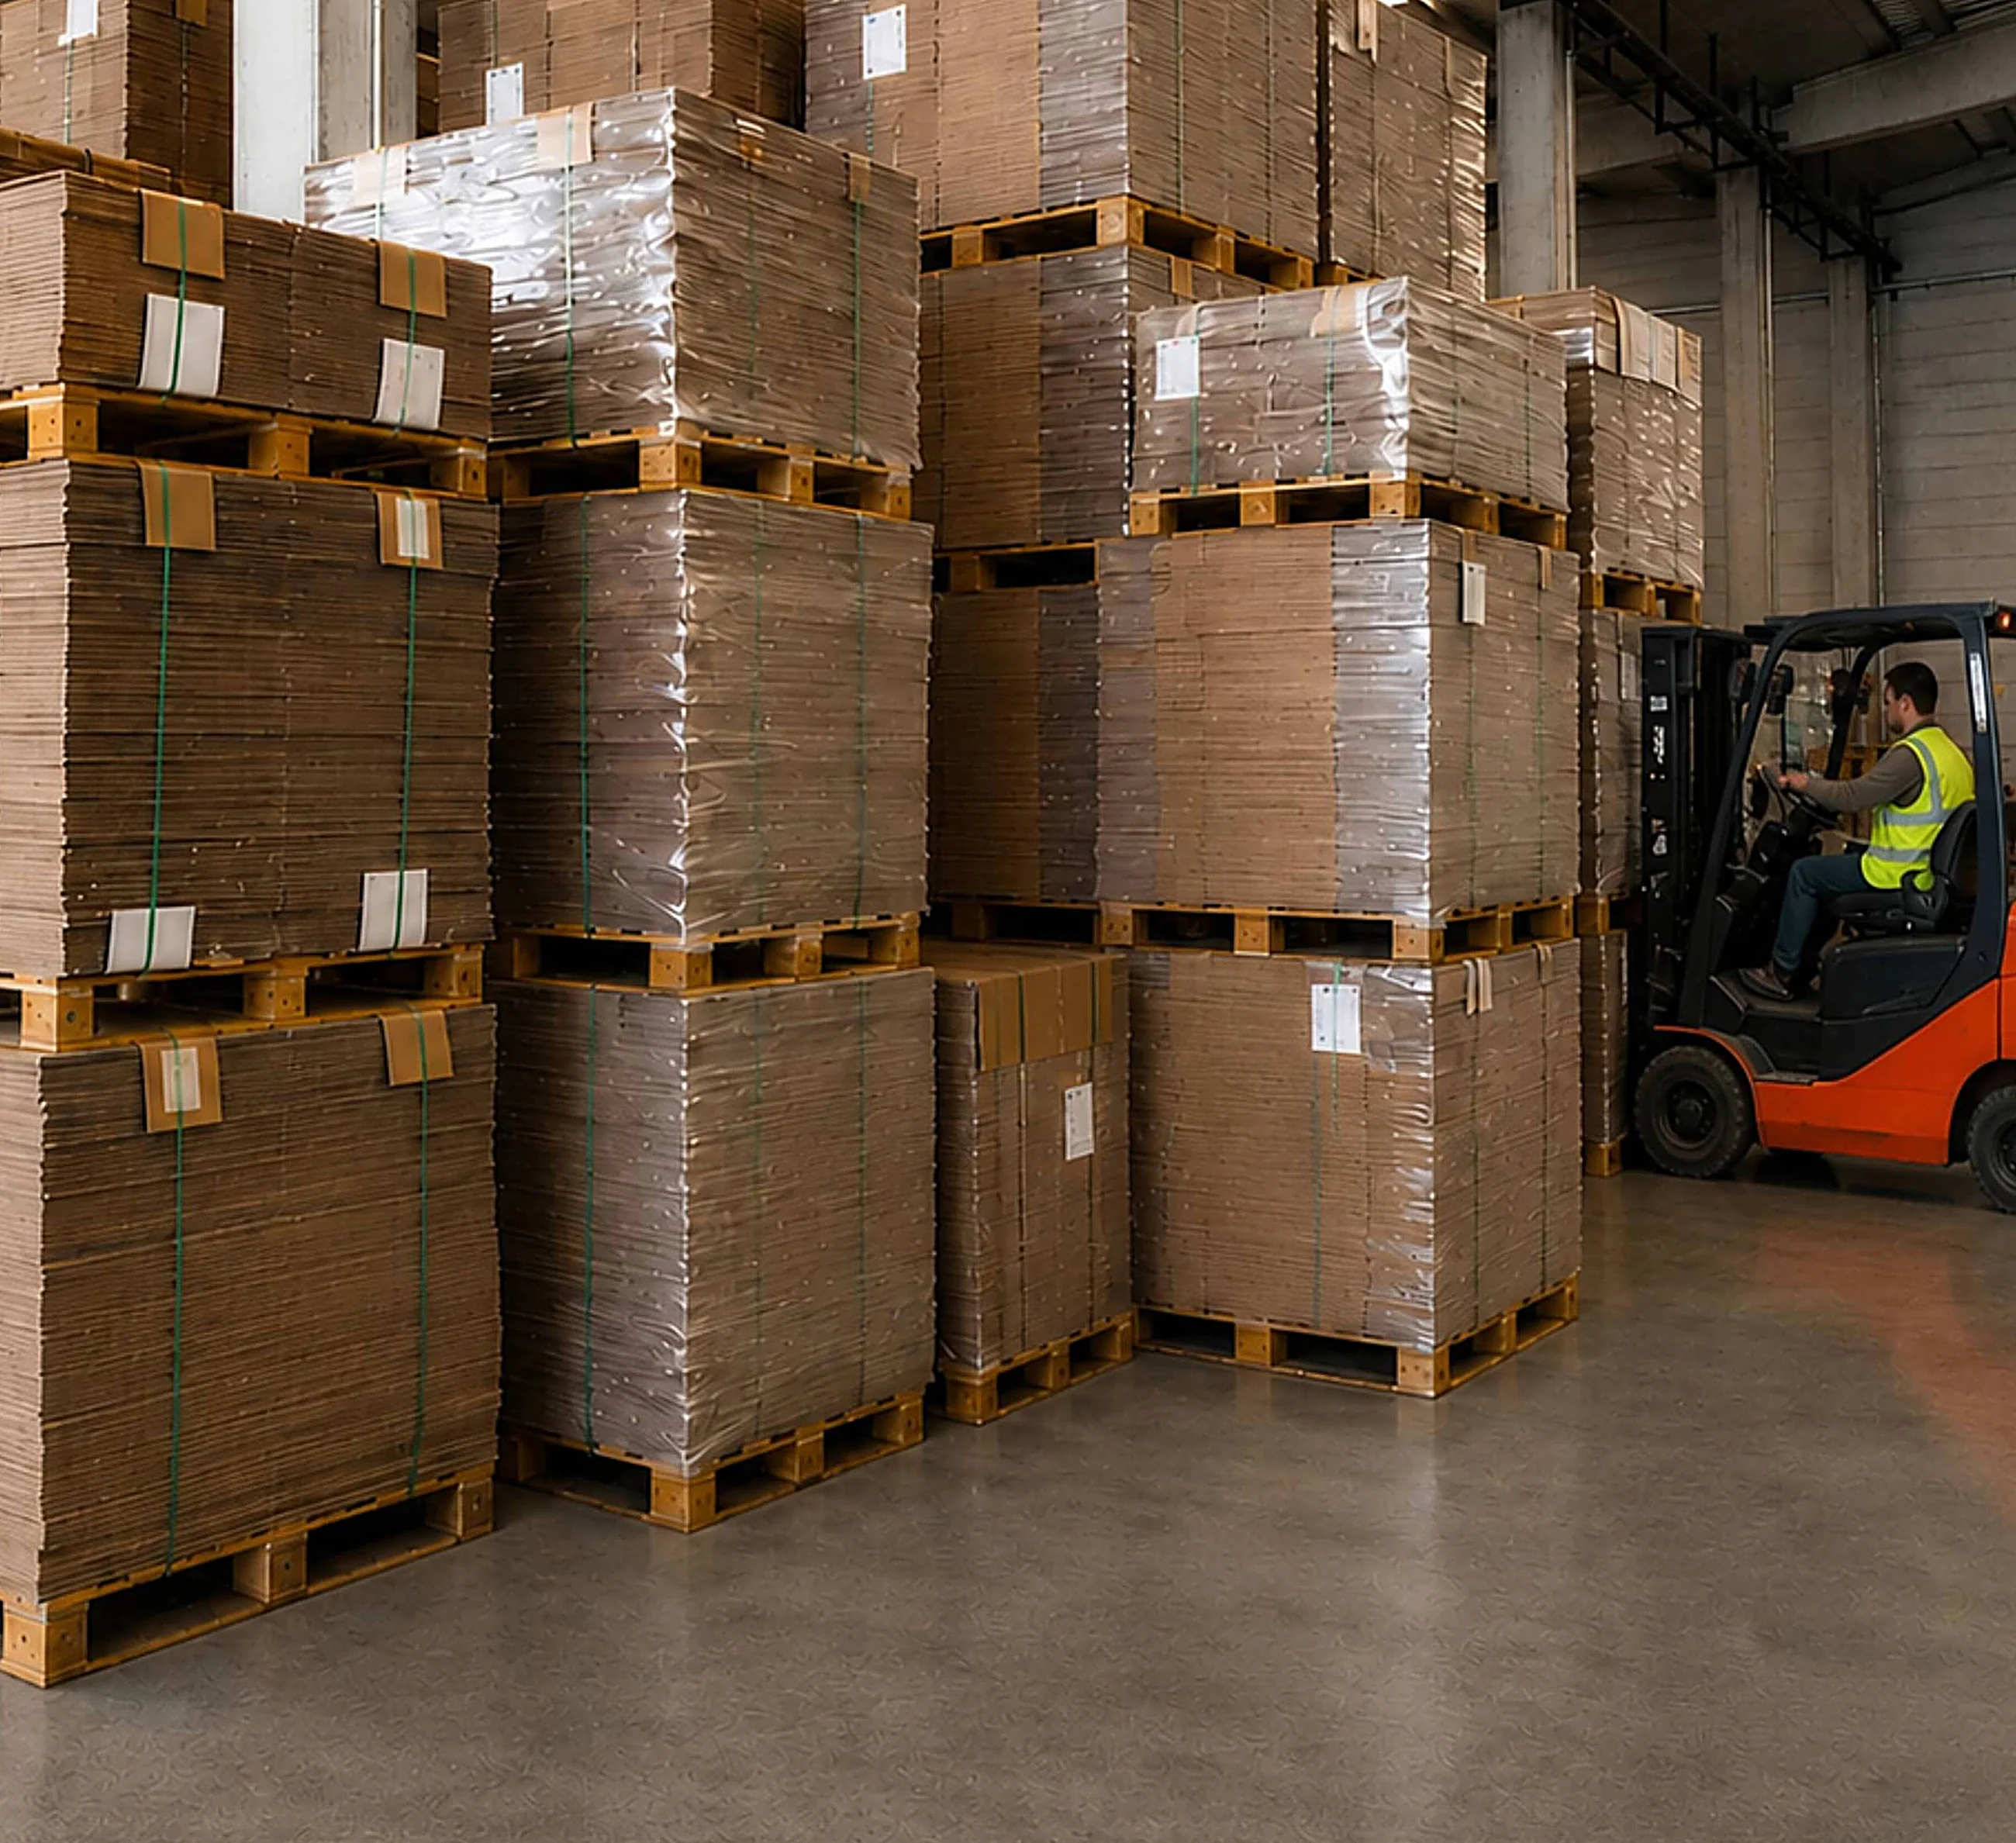
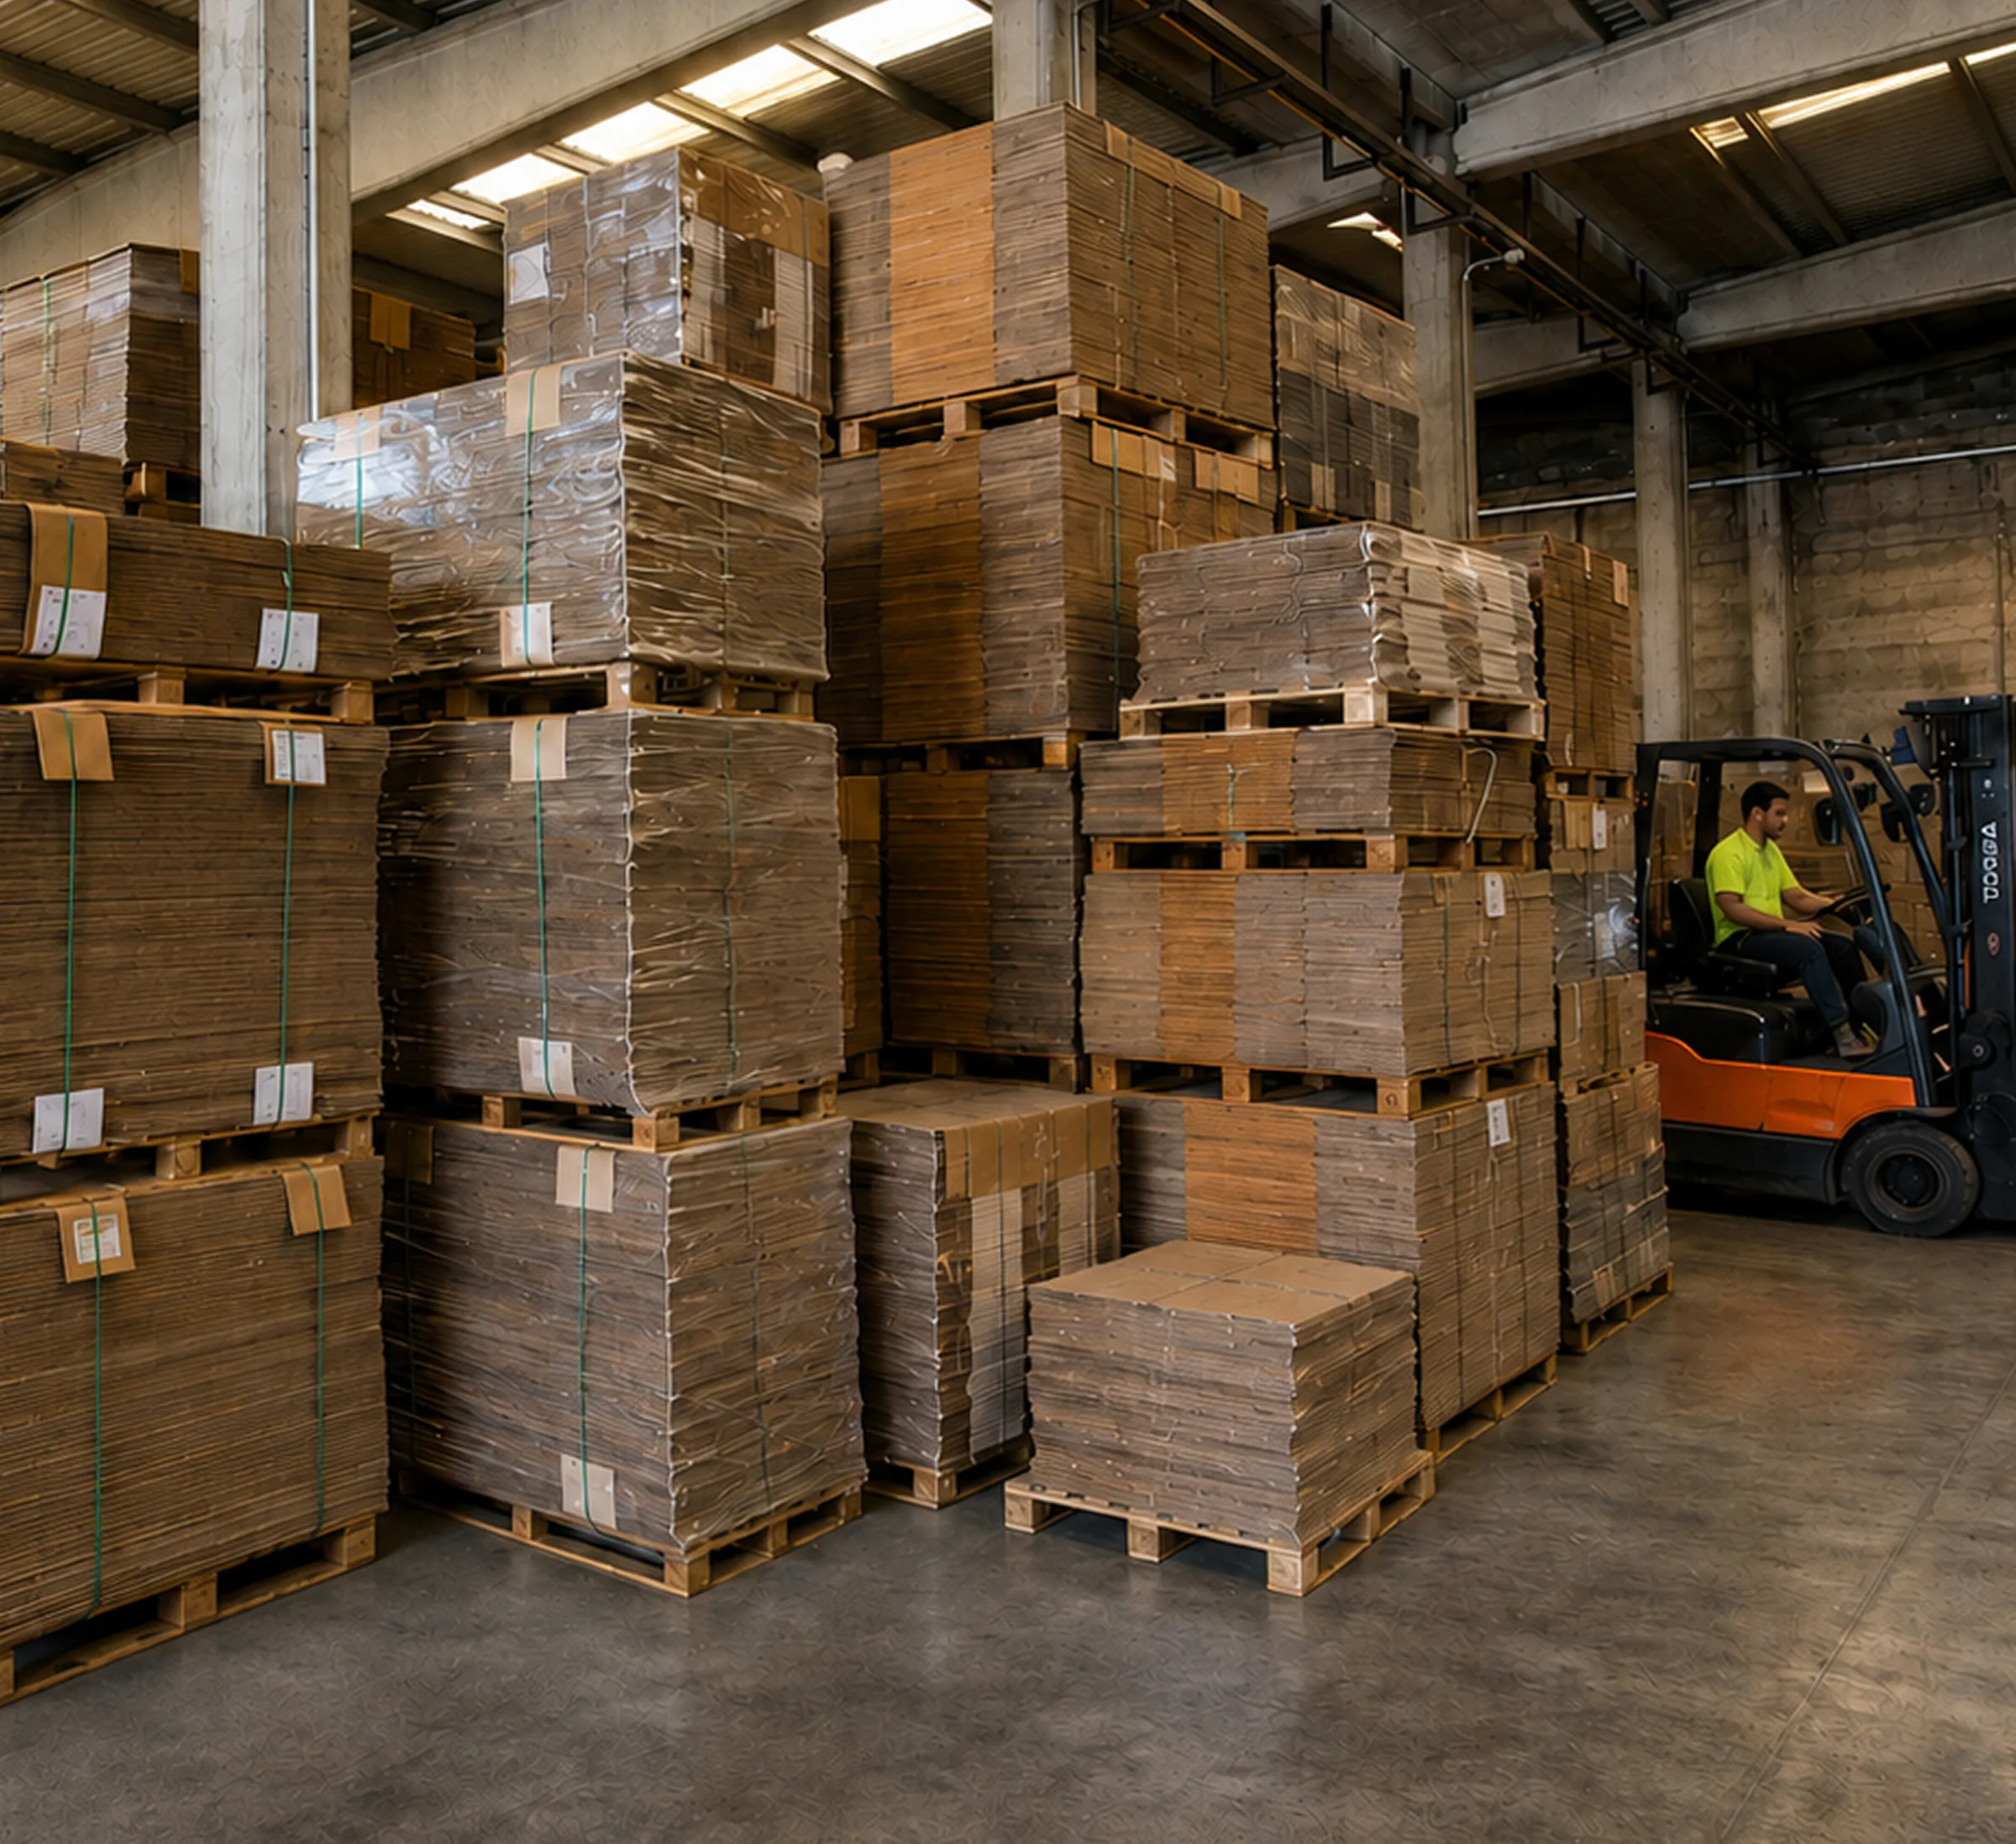
Hero: compo tablet más baja (3/2) y sello 40 abajo-derecha

diff --git a/src/components/Hero.js b/src/components/Hero.js
@@ -1,8 +1,6 @@
 "use client";
 
-import { useEffect, useRef } from "react";
-import { gsap } from "gsap";
-import { ScrollTrigger } from "gsap/ScrollTrigger";
+import { useRef } from "react";
 import Container from "./Container";
 import PillButton from "./PillButton";
 import StockImg from "./StockImg";
@@ -42,56 +40,6 @@ function HeroFactsTrack({ ariaHidden = false }) {
 
 export default function Hero() {
   const sectionRef = useRef(null);
-  const card2Ref = useRef(null);
-
-  useEffect(() => {
-    if (typeof window === "undefined") return;
-    gsap.registerPlugin(ScrollTrigger);
-
-    const ctx = gsap.context(() => {
-      const items = gsap.utils.toArray(".hero-parallax img:not(.no-parallax)");
-      items.forEach((img, i) => {
-        // Recorrido pequeño + escala mínima para que el parallax no recorte
-        // (haga "zoom") las fotos. La escala solo necesita cubrir el viaje:
-        // overflow por lado = (scale-1)/2 ≥ range% · scale.
-        const range = 2 + (i % 3) * 1;
-        const dir = i % 2 === 0 ? 1 : -1;
-        gsap.set(img, { scale: 1.08, yPercent: -range * dir });
-        gsap.to(img, {
-          yPercent: range * dir,
-          ease: "none",
-          scrollTrigger: {
-            trigger: img.parentElement,
-            start: "top bottom",
-            end: "bottom top",
-            scrub: 0.6,
-          },
-        });
-      });
-
-      // Parallax de scroll sutil para la tarjeta secundaria (02): se desplaza
-      // un poco más que el resto al hacer scroll, dando profundidad sobre la
-      // imagen principal.
-      if (card2Ref.current) {
-        gsap.fromTo(
-          card2Ref.current,
-          { yPercent: 20 },
-          {
-            yPercent: -20,
-            ease: "none",
-            scrollTrigger: {
-              trigger: sectionRef.current,
-              start: "top bottom",
-              end: "bottom top",
-              scrub: 0.6,
-            },
-          }
-        );
-      }
-    }, sectionRef);
-
-    return () => ctx.revert();
-  }, []);
 
   return (
     <section
@@ -99,7 +47,7 @@ export default function Hero() {
       className="hero-parallax relative bg-paper overflow-hidden desk:min-h-[calc(100svh-5rem)] desk:flex desk:flex-col"
     >
       <Container className="pt-10 md:pt-12 pb-10 desk:pb-6 desk:flex-1 desk:flex desk:flex-col desk:justify-center">
-        <div className="grid grid-cols-12 gap-x-4 md:gap-x-8 gap-y-8 md:gap-y-12 items-start desk:items-stretch">
+        <div className="grid grid-cols-12 gap-x-4 md:gap-x-8 gap-y-8 md:gap-y-12 items-start">
           <div className="col-span-12 desk:col-span-5 space-y-5 md:space-y-7 text-center desk:text-left">
             <p className="eyebrow">
               Soluciones de embalaje · Logística · Gestión de stock
@@ -131,36 +79,45 @@ export default function Hero() {
             </div>
           </div>
 
-          <div className="col-span-12 desk:col-span-7 desk:col-start-6 relative aspect-[4/3] sm:aspect-[16/10] desk:aspect-auto desk:h-auto desk:min-h-[70vh]">
-            {/* Imagen principal: nave (grande, arriba-izquierda).
-                object-right: el contenido importante está a la derecha, así el
-                recorte responsive se come el lado izquierdo y nunca la derecha. */}
-            <div className="absolute inset-0 overflow-hidden">
+          <div className="col-span-12 desk:col-span-7 desk:col-start-6 relative aspect-[3/2] max-[767px]:aspect-square desk:aspect-square overflow-hidden">
+            {/* Imagen base: nave. Su caja es SOLO el rectángulo que envuelve su
+                cuña izquierda (de 0 a 68% del ancho), no el bloque entero, para
+                que object-cover no gaste foto bajo la máscara del cartón.
+                El clip va relativo a esa caja del 68%. */}
+            <div
+              className="absolute left-0 top-0 h-full w-[68%] overflow-hidden"
+              style={{ clipPath: "polygon(0 0, 100% 0, 73.5% 100%, 0 100%)" }}
+            >
               <StockImg
                 src="/img/cliente/01.webp"
                 srcTablet="/img/cliente/01-tablet.webp"
                 alt="Nave de RM Dislovall con palets envueltos en Sentmenat"
-                className="object-right-bottom"
+                className="object-right"
                 w={1400}
                 q={85}
               />
             </div>
-            {/* Imagen secundaria: cartón ondulado, superpuesta abajo-derecha,
-                sobresaliendo por la derecha y por abajo. */}
-            <div ref={card2Ref} className="absolute right-[4%] desk:right-[-2%] bottom-[-6%] w-[34%] aspect-square">
-              <div className="absolute inset-0 overflow-hidden shadow-[0_24px_55px_-18px_rgba(48,39,29,0.5)]">
-                <StockImg
-                  src="/img/cliente/02.webp"
-                  alt="Detalle de planchas de cartón ondulado"
-                  className="no-parallax"
-                  w={1200}
-                  q={85}
-                  labelPos="top-1 right-1"
-                />
-              </div>
-              {/* Badge: su centro va siempre en la esquina superior izquierda de la 02 */}
-              <Badge className="absolute z-20 top-0 left-0 -translate-x-1/2 -translate-y-1/2 w-20 md:w-24 lg:w-28 aspect-square" />
+            {/* Cuña diagonal: cartón ondulado. Caja = rectángulo de su cuña
+                derecha (de 50% a 100% del ancho). Clip relativo a esa caja. */}
+            <div
+              className="absolute right-0 top-0 h-full w-[50%] overflow-hidden"
+              style={{ clipPath: "polygon(36% 0, 100% 0, 100% 100%, 0 100%)" }}
+            >
+              <StockImg
+                src="/img/cliente/02.webp"
+                alt="Detalle de planchas de cartón ondulado"
+                className="object-center"
+                w={1200}
+                q={85}
+              />
             </div>
+            {/* Filo fino color paper sobre la diagonal, para un corte limpio */}
+            <div
+              aria-hidden
+              className="absolute inset-0 pointer-events-none bg-paper"
+              style={{ clipPath: "polygon(68% 0, 69% 0, 51% 100%, 50% 100%)" }}
+            />
+            <Badge className="absolute z-10 bottom-5 right-5 md:bottom-7 md:right-7 w-28 md:w-32 lg:w-36 aspect-square" />
           </div>
         </div>
 

diff --git a/src/components/Material.js b/src/components/Material.js
@@ -24,25 +24,34 @@ const items = [
 export default function Material() {
   const [openIndex, setOpenIndex] = useState(-1);
 
+  const intro = (
+    <div className="space-y-4 text-center desk:text-left">
+      <p className="eyebrow">
+        Forma de trabajar
+      </p>
+      <h2 className="heading-section">
+        Adaptación, respuesta
+        <span className="block italic text-wood">y relación continua.</span>
+      </h2>
+      <p className="text-base text-inkSoft text-pretty max-w-md pt-2 leading-[1.45] mx-auto desk:mx-0">
+        Cada empresa trabaja con necesidades distintas de producción,
+        almacenaje y expedición. El servicio se plantea desde la
+        continuidad, la capacidad de adaptación y una atención cercana
+        durante todo el suministro.
+      </p>
+    </div>
+  );
+
   return (
     <section className="grid grid-cols-1 desk:grid-cols-2 desk:min-h-[100svh] items-stretch">
-      <div className="bg-paperSoft text-ink flex items-center px-section-x py-section-y md:py-16 order-2 overflow-y-auto">
+      {/* Intro solo en móvil/tablet: por encima de la imagen 09 */}
+      <div className="desk:hidden order-1 px-section-x pt-section-y md:pt-16">
+        {intro}
+      </div>
+
+      <div className="bg-paperSoft text-ink flex items-center px-section-x py-section-y md:py-16 order-3 desk:order-2 overflow-y-auto">
         <div className="w-full max-w-xl mx-auto space-y-8">
-          <div className="space-y-4 text-center desk:text-left">
-            <p className="eyebrow">
-              Forma de trabajar
-            </p>
-            <h2 className="heading-section">
-              Adaptación, respuesta
-              <span className="block italic text-wood">y relación continua.</span>
-            </h2>
-            <p className="text-base text-inkSoft text-pretty max-w-md pt-2 leading-[1.45] mx-auto desk:mx-0">
-              Cada empresa trabaja con necesidades distintas de producción,
-              almacenaje y expedición. El servicio se plantea desde la
-              continuidad, la capacidad de adaptación y una atención cercana
-              durante todo el suministro.
-            </p>
-          </div>
+          <div className="hidden desk:block">{intro}</div>
 
           <ul>
             {items.map((it, i) => {
@@ -96,7 +105,7 @@ export default function Material() {
         </div>
       </div>
 
-      <div className="relative bg-wood h-[42vh] max-h-[480px] min-h-[300px] mx-section-x desk:mx-0 desk:h-full desk:max-h-none desk:min-h-[280px] overflow-hidden order-1 max-[1279px]:!h-auto max-[1279px]:!max-h-none max-[1279px]:!min-h-0 max-[1279px]:bg-transparent">
+      <div className="relative bg-wood h-[42vh] max-h-[480px] min-h-[300px] mx-section-x desk:mx-0 desk:h-full desk:max-h-none desk:min-h-[280px] overflow-hidden order-2 desk:order-1 max-[1279px]:!h-auto max-[1279px]:!max-h-none max-[1279px]:!min-h-0 max-[1279px]:bg-transparent">
         <StockImg
           src="/img/cliente/09.webp"
           srcTablet="/img/cliente/09-tablet.webp"

diff --git a/src/components/StockImg.js b/src/components/StockImg.js
@@ -17,7 +17,7 @@ const DEBUG_LABELS = true;
 const MOBILE_MAX = 767; // < 768 = mobile
 const TABLET_MIN = 768;
 const TABLET_MAX = 1279; // 768–1279 = tablet ; ≥1280 = desktop
-export default function StockImg({ src, srcTablet = null, srcMobile = null, alt, className = "", w = 1200, q = 80, labelPos = "top-1 left-1" }) {
+export default function StockImg({ src, srcTablet = null, srcMobile = null, alt, className = "", w = 1200, q = 80, labelPos = "top-1 left-1", contain = false, fitHeight = false }) {
   const isLocal = src.startsWith("/") || src.startsWith("./");
   const finalSrc = isLocal ? src : `${src}?w=${w}&q=${q}&auto=format&fit=crop`;
 
@@ -43,13 +43,25 @@ export default function StockImg({ src, srcTablet = null, srcMobile = null, alt,
     });
   }, []);
 
-  const imgEl = (
+  // fitHeight: la imagen se ajusta por ALTURA (h-full, ancho natural), así no
+  // se recorta nunca por arriba/abajo; el sobrante se va por los lados. El
+  // `className` controla la alineación horizontal (p.ej. left-0, inset-x-0
+  // mx-auto). En modo normal llena la caja con object-cover/contain.
+  const imgEl = fitHeight ? (
     <img
       src={finalSrc}
       alt={alt}
       loading="lazy"
       decoding="async"
-      className={`absolute inset-0 w-full h-full object-cover ${className}`}
+      className={`absolute top-0 bottom-0 h-full w-auto max-w-none ${className}`}
+    />
+  ) : (
+    <img
+      src={finalSrc}
+      alt={alt}
+      loading="lazy"
+      decoding="async"
+      className={`absolute inset-0 w-full h-full ${contain ? "object-contain" : "object-cover"} ${className}`}
     />
   );
 